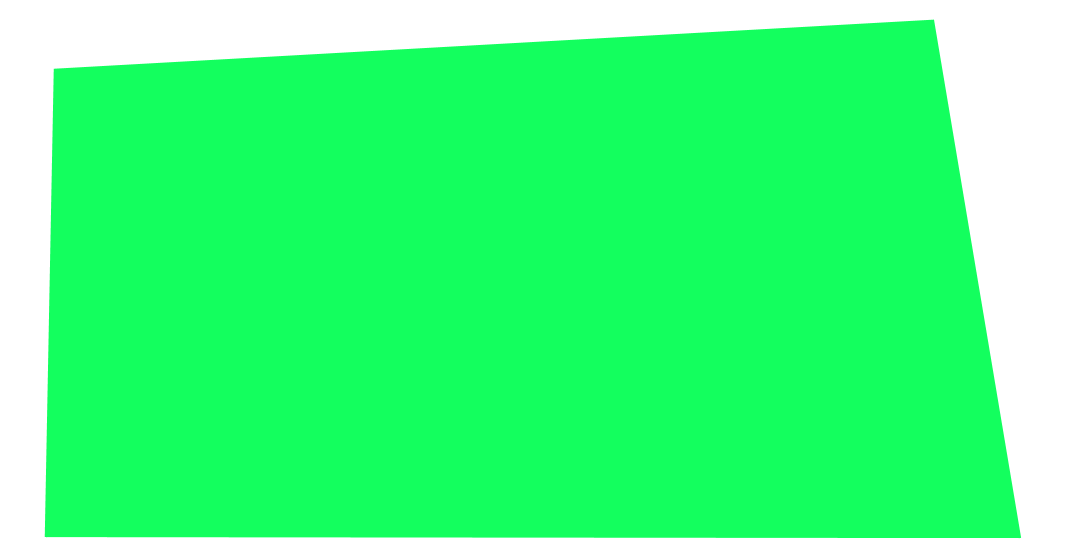
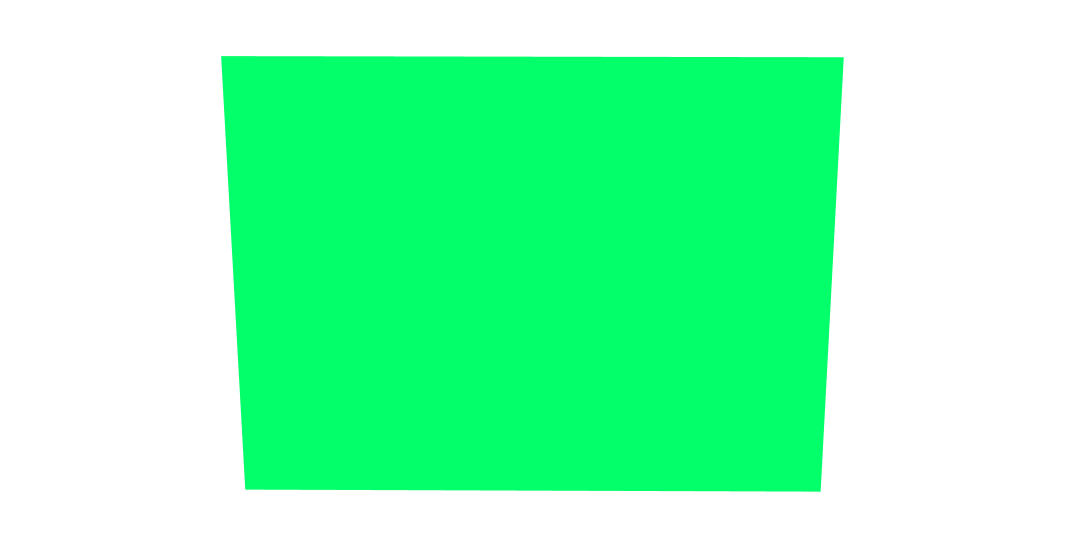
Play Button

diff --git a/gbcss/Cyberpunk 2077/2026/Cyberpunk 2077.css b/gbcss/Cyberpunk 2077/2026/Cyberpunk 2077.css
@@ -482,6 +482,28 @@ wrapper#HeadlineWrapper {
     border-image-outset: 0;
 }
 
+#IdentityModule
+	{
+    position: relative;
+
+    background: #491619;
+
+    border-style: solid;
+    border-width: 0px;
+
+    border-image-source: url("");
+
+    /* top | right | bottom | left */
+    border-image-slice: 82 29 82 52 fill;
+
+    /* Visual size of each border section */
+    border-image-width: 82px 29px 82px 52px;
+
+    border-image-repeat: stretch;
+    border-image-outset: 0;
+}
+
+
 .PageModule > h2,
 .PageModule > .Content,
 .PageModule > div
@@ -623,7 +645,7 @@ wrapper#HeadlineWrapper {
   display: block;
 	margin-top: 320px;
   padding: 0px 0px 40px 0px;
-  transform: translate(0px,-350px); /* X = right 20px, Y = up 10px */
+  transform: translate(-10px,-330px); /* X = right 20px, Y = up 10px */
 
   /* Replace content with signature */
   background-image: url('https://phencyclidine08.github.io/gbcss/Cyberpunk%202077/2026/assets/Allenart07a_black.png');
@@ -671,7 +693,7 @@ wrapper#HeadlineWrapper {
 #IdentityModule > div > ul 
 {
   position: relative; /* required to visually shift */
-  transform: translate(0px, -120px); /* X = right 20px, Y = up 10px */
+  transform: translate(-21px, -10px); /* X = right 20px, Y = up 10px */
   padding: 0px 0px 0px 0px;
 }
 
